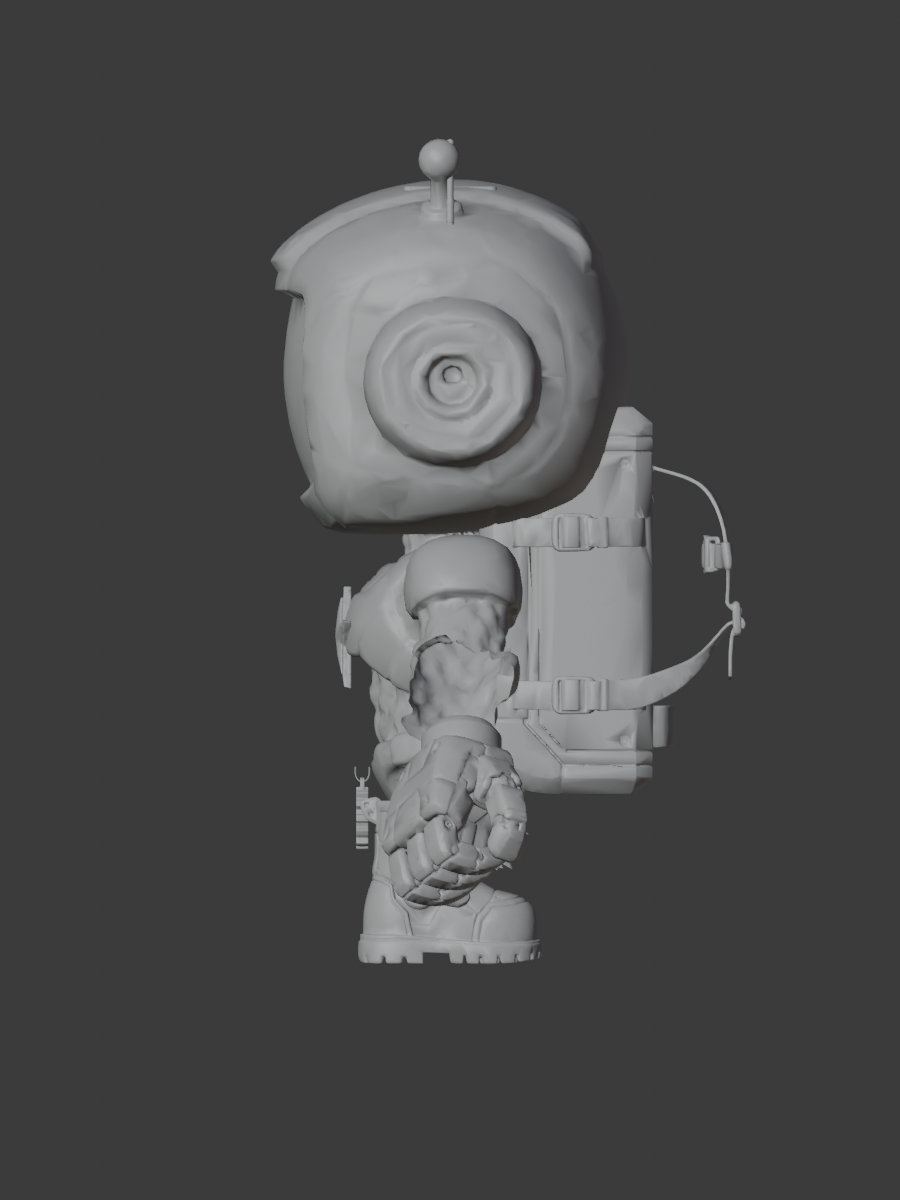
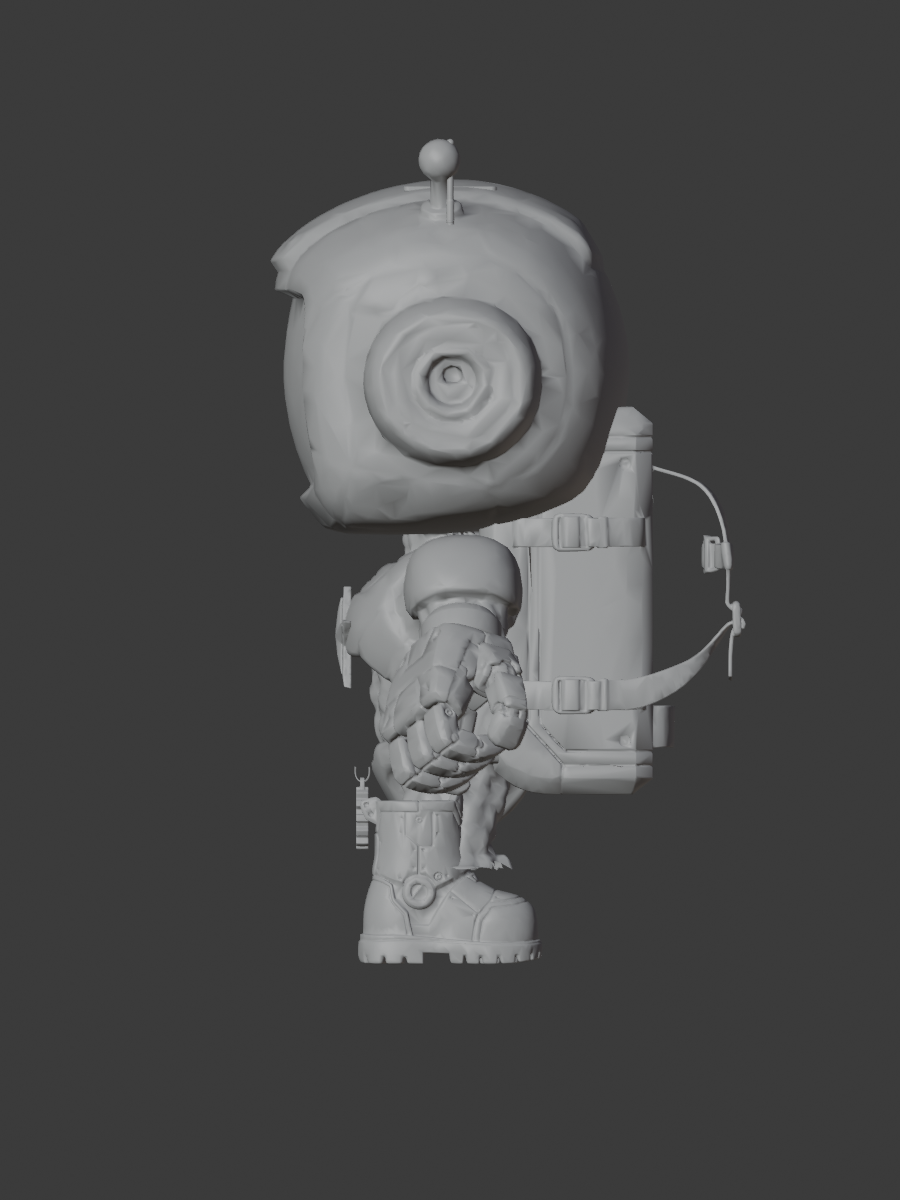
Fix hands floating off the arms: offset_frac.x wasn't mirrored, offset was too small
The previous commit's hands didn't actually connect to the arms on either
side, despite looking passable in an isolated, misleadingly-cropped test
render. Two real bugs, found from a wide unclipped render that made the
disconnect obvious:

1. offset_frac's X component was never mirrored for the right-side instance.
   It's a plain world-space translation (added outside the rotation/scale
   math), so unlike rotation it only needs a straightforward reflection
   (negate X, keep Y/Z) -- but the code reused the same unmirrored offset for
   both sides. Every prior trait's offset_frac.x was 0 (antenna, belt charm,
   boots), so this never surfaced until the hand's nonzero x offset exposed
   it: the same +x nudge that helped the left hand pushed the right hand's
   wrist the wrong way, off its own forearm.

2. The offset magnitude was under-corrected regardless. Like the boot, the
   Hand.L bone head sits INSIDE the hidden mesh_regions.hand window, so the
   visible forearm stump ends well back of the bone head, not at it. Fixed
   the same rigorous way as the boot: measured the actual remaining stump
   vertices closest to the bone's own axis after hiding, measured the hand
   mesh's own wrist-face position for several candidate offsets, and picked
   where the two numbers meet, instead of the earlier small, wrong-signed,
   eyeballed nudge.

Both hands now seat flush against their forearms with no visible gap,
[…]

Changed region(s): [[0.4356, 0.4933, 0.5911, 0.7708]]

diff --git a/tools/build_character.py b/tools/build_character.py
@@ -166,7 +166,18 @@ def fit_instruction(instr, body_obj=None, armature_obj=None, hidden=None):
     # every prop back at the scene origin instead of at its target. For a
     # socket, local space IS the socket's own position (offset only); for a
     # bone attach, the bone head is the base position and offset fine-tunes it.
-    prop.location = base_location + mathutils.Vector(tuple(f * CHAR_HEIGHT for f in instr.offset_frac))
+    off_x, off_y, off_z = instr.offset_frac
+    if instr.mirror_x:
+        # offset_frac is a plain world-space translation (no TRS-order subtlety
+        # like the rotation below), so mirroring it is direct reflection: negate
+        # X, keep Y/Z. Every existing trait's offset_frac.x happened to be 0
+        # (antenna, belt charm, boots), so this was never exercised until the
+        # hand's offset (0.02, 0, -0.035) exposed it: without the negation, the
+        # SAME +x nudge that correctly seats the left hand against its stump
+        # pushes the right hand's wrist cap the WRONG way (toward the body
+        # instead of out to meet its own stump), leaving it visibly disconnected.
+        off_x = -off_x
+    prop.location = base_location + mathutils.Vector((off_x * CHAR_HEIGHT, off_y * CHAR_HEIGHT, off_z * CHAR_HEIGHT))
     # The glTF importer leaves objects in QUATERNION mode, where assigning
     # rotation_euler is silently ignored. Compose the manifest hint ON TOP of
     # the imported orientation via quaternions: hint (0,0,0) keeps the prop as

diff --git a/docs/KnitBit-Base-Spec.md b/docs/KnitBit-Base-Spec.md
@@ -520,17 +520,44 @@ both found and fixed while fitting the real assets, not anticipated in advance:
    accepted rather than chased further, the same way Phase A documented the
    belt-charm's stray chain-link fragment rather than fully solving it: both are
    inherent AI-reconstruction/flat-cut artifacts, not code bugs.
+3. **`offset_frac`'s X component wasn't mirrored, and this shipped once before
+   being caught.** `offset_frac` is added as a plain world-space translation
+   (`base_location + offset_frac·CHAR_HEIGHT`), outside the rotation/mirror-scale
+   math above, and unlike rotation it needs only a straightforward reflection
+   (negate X, keep Y/Z) for the mirrored instance to be a true mirror position —
+   but the code applied the **same** unmirrored offset to both sides. Every prior
+   trait's `offset_frac.x` happened to be `0` (antenna, belt charm, boots), so this
+   was never exercised until the hand's nonzero `x` offset shipped: the left hand
+   looked plausible, the right hand's wrist visibly floated off its own forearm,
+   because the same `+x` nudge that (partially) helped the left pushed the right
+   the wrong way. Fixed by negating `offset_frac.x` for every mirrored instruction,
+   the same way rotation was already handled.
 
-**Fit values were derived, not eyeballed, where the math was tractable:**
+**Fit values were derived, not eyeballed, where the math was tractable — but
+"derived" is not the same as "correct on the first try," and the hand's position
+specifically needed a second, harder pass:**
 - Boot yaw (`rotation_deg` z=-90): found by rendering the isolated boot mesh from
   directly above at four candidate yaws and reading which one pointed the toe
   toward the character's front (-Y).
-- Hand orientation (`rotation_deg` = computed Euler): the fist's local knuckle
-  direction (-Y, read off isolated front/side renders) needs to end up along the
-  `Hand.L` bone's actual head→tail direction (mostly -Z/down with some +X/outward,
-  matching the A-pose forearm) — computed exactly with
-  `mathutils.Vector.rotation_difference()` rather than guessed by eye, and it
-  produced a correctly-angled fist on the **first** real-pipeline render.
+- Hand **orientation** (`rotation_deg`): the fist's local knuckle direction (-Y,
+  read off isolated front/side renders) needs to end up along the `Hand.L` bone's
+  actual head→tail direction — computed exactly with
+  `mathutils.Vector.rotation_difference()` rather than guessed by eye, and this
+  part was correct from the first real-pipeline render.
+- Hand **position** (`offset_frac`) was not correct at first, for two compounding
+  reasons: the offset-mirror bug above (issue 3), and an initial offset far too
+  small in magnitude. Like the boot, the `Hand.L` bone head sits **inside** the
+  hidden `mesh_regions.hand` window (`x=0.689`, well within `[0.5, 0.8]`), so the
+  visible forearm stump ends noticeably further back toward the elbow than the
+  bone head — placing the wrist cap AT the bone head with no/a small offset
+  leaves it floating well clear of the stump. This was under-corrected in the
+  first pass (a small nudge that merely looked plausible from one misleading
+  crop angle) and only became obvious once a wide, unclipped render showed both
+  wrists visibly disconnected from their arms. Fixed the same rigorous way as the
+  boot: measured the actual remaining stump vertices closest to the bone's own
+  axis line, measured the placed hand mesh's own wrist-face position for several
+  candidate offsets along the bone direction, and picked the offset (roughly
+  10% of the bone's length, back toward the elbow) where the two numbers meet.
 
 Both traits are wired into the `pilot` preset only for now (not `variant_b`/`_c`)
 — `variant_c`'s watering can holds in the hand, and a closed-fist replacement